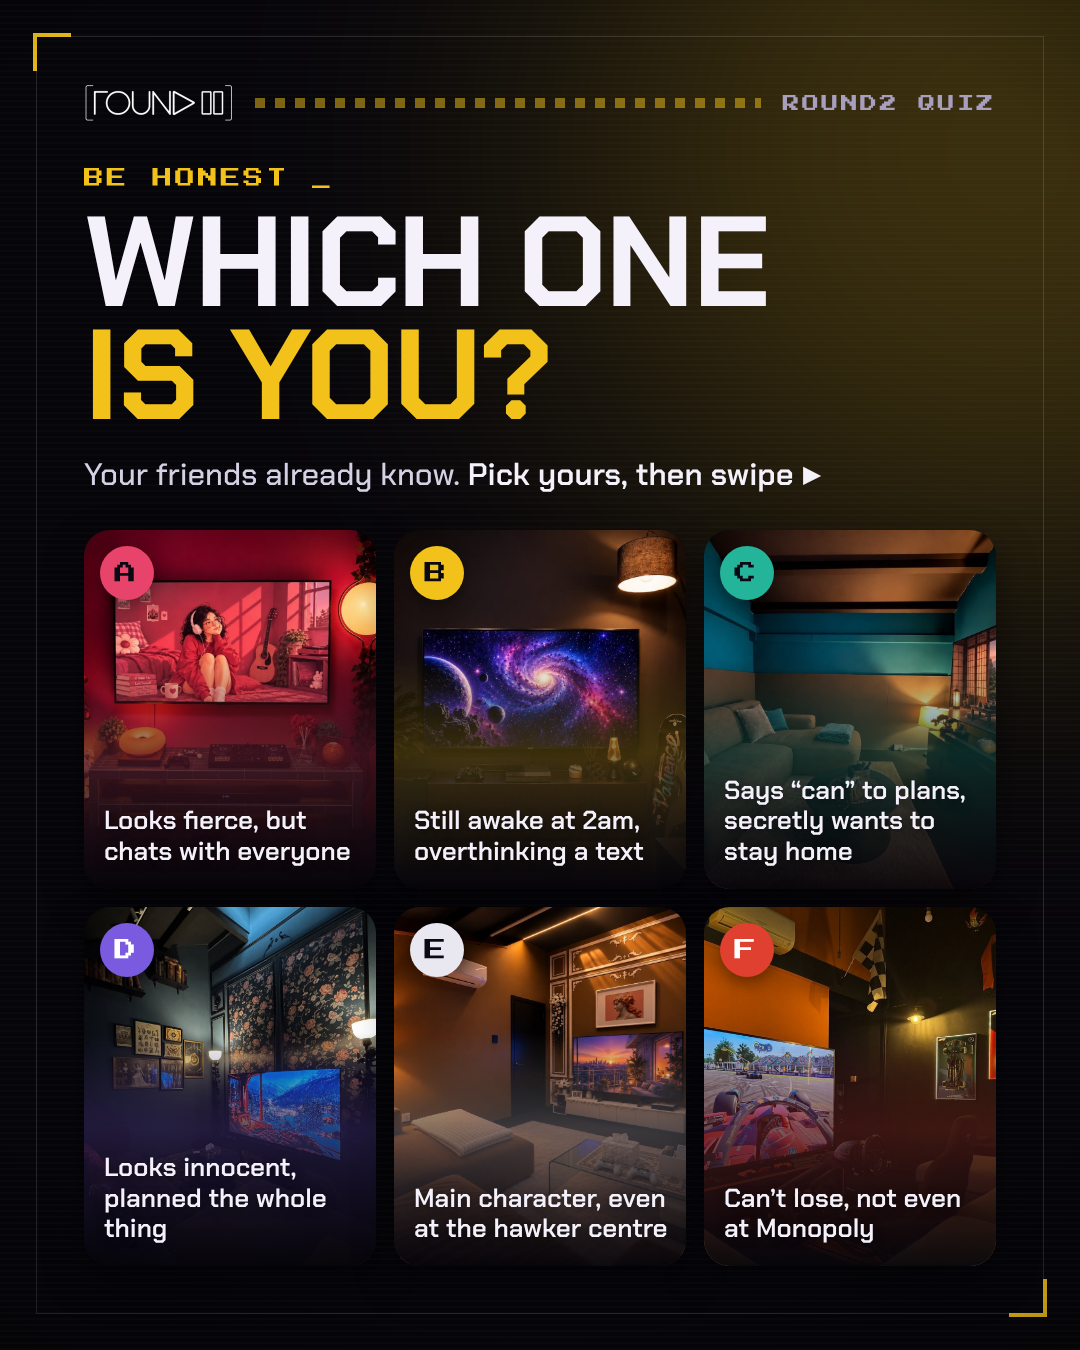
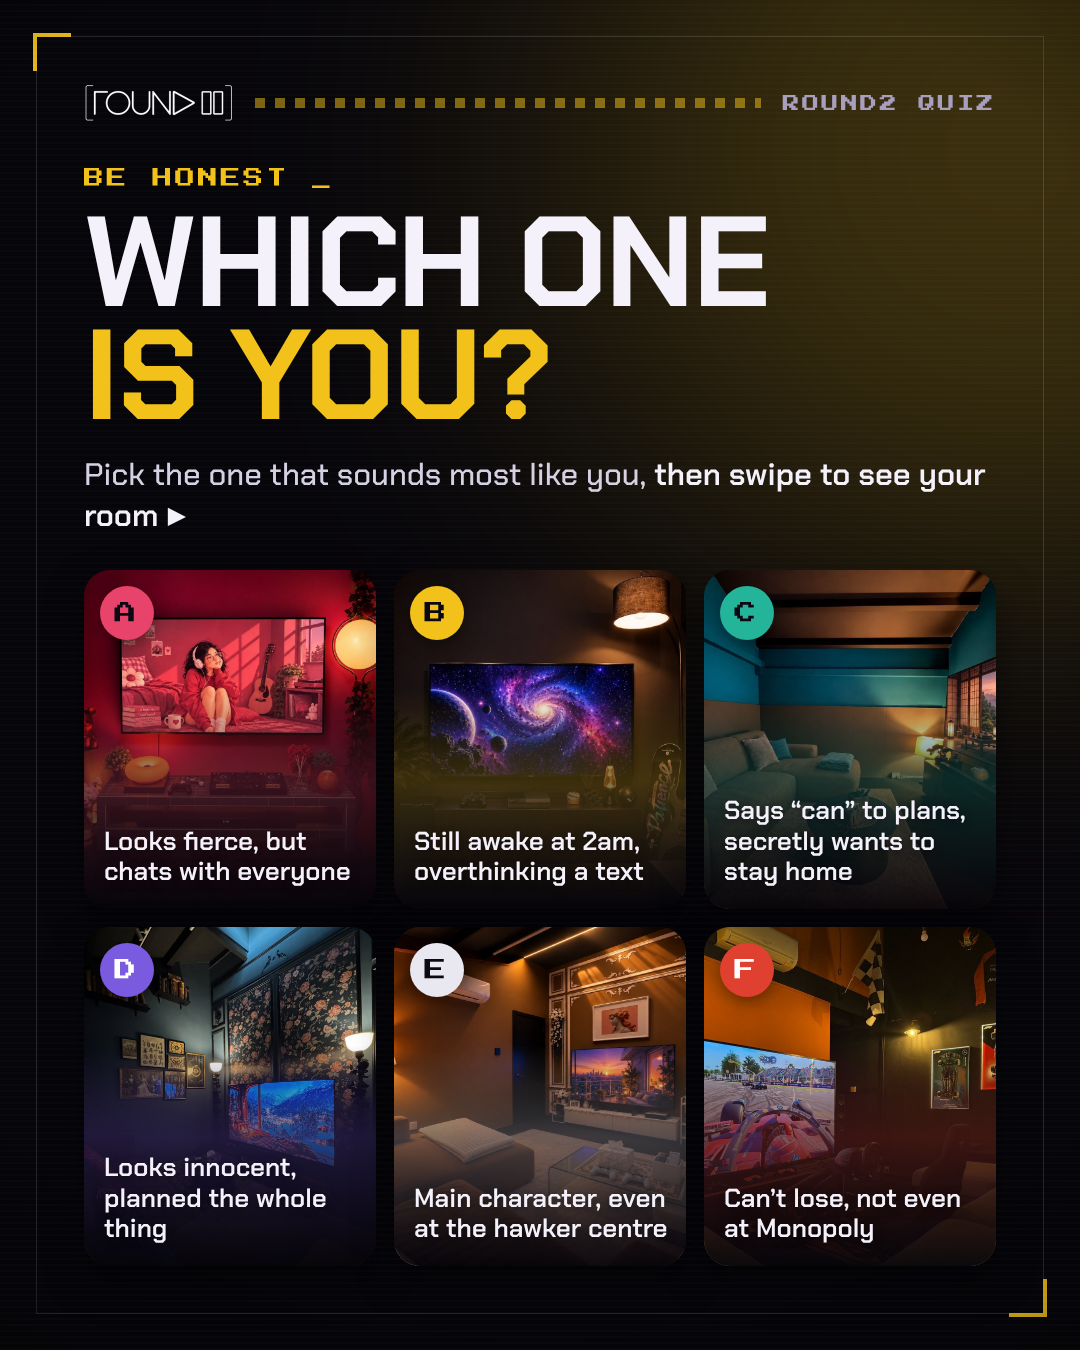
Room quiz: clearer cover instruction
Claude-Session: https://claude.ai/code/session_01PDkwSCLDYKchcH27nujJvW

Changed region(s): [[0.0611, 0.3422, 0.9472, 0.8711], [0.8861, 0.84, 0.9167, 0.8711]]

diff --git a/marketing/ig-room-quiz/index.html b/marketing/ig-room-quiz/index.html
@@ -186,7 +186,7 @@ function cover(){
   return frame('#F2C21B','#0b0914', `${topBar('Round2 quiz')}
     <div class="cv-k px">Be honest <span class="blink">_</span></div>
     <h1 class="cv-t">Which one<br><em>is you?</em></h1>
-    <div class="cv-s">Your friends already know. <b>Pick yours, then swipe ▶</b></div>
+    <div class="cv-s">Pick the one that sounds most like you, <b>then swipe to see your room ▶</b></div>
     <div class="grid">${tiles}</div>`, 'right:-380px;top:-300px');
 }
 function card(q, i){
